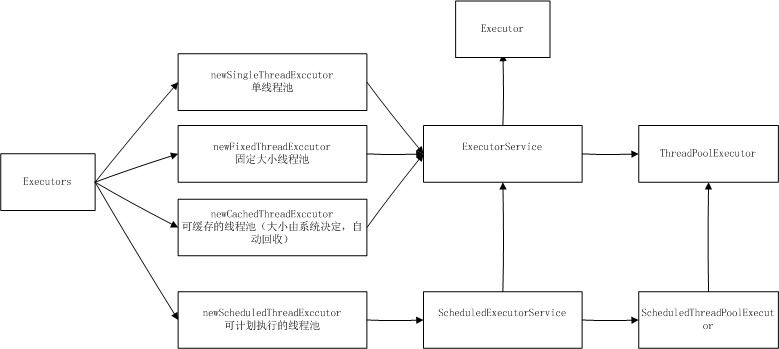
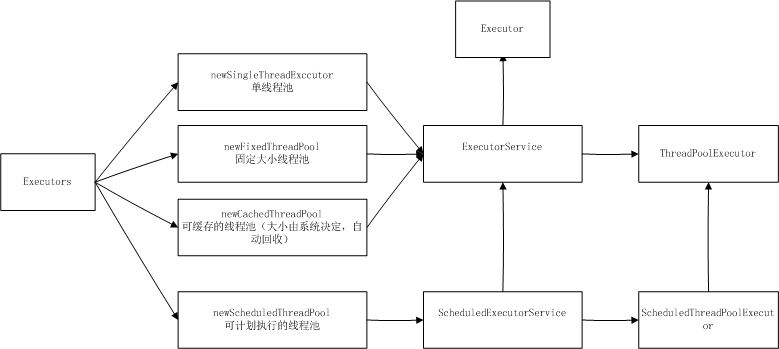
change thread pool note

Changed region(s): [[0.2465, 0.8596, 0.4313, 0.9169], [0.2773, 0.6017, 0.4313, 0.6304], [0.2773, 0.4011, 0.4313, 0.4298]]

diff --git a/2016/03/04/java线程池/index.html b/2016/03/04/java线程池/index.html
@@ -227,8 +227,8 @@
 <pre><code><span class="comment"><figure class="highlight java"><table><tr><td class="gutter"><pre><span class="line">1</span><br><span class="line">2</span><br><span class="line">3</span><br><span class="line">4</span><br><span class="line">5</span><br><span class="line">6</span><br><span class="line">7</span><br><span class="line">8</span><br><span class="line">9</span><br><span class="line">10</span><br><span class="line">11</span><br><span class="line">12</span><br><span class="line">13</span><br><span class="line">14</span><br></pre></td><td class="code"><pre><span class="line">ScheduledExecutorService  pool =  Executors.newScheduledThreadPool(<span class="number">2</span>);</span><br><span class="line">pool.scheduleAtFixedRate(<span class="keyword">new</span> Runnable() &#123;<span class="comment">//每隔一段时间就触发异常</span></span><br><span class="line">       <span class="annotation">@Override</span></span><br><span class="line">       <span class="function"><span class="keyword">public</span> <span class="keyword">void</span> <span class="title">run</span><span class="params">()</span> </span>&#123;</span><br><span class="line">            <span class="comment">//throw new RuntimeException();</span></span><br><span class="line">            System.out.println(<span class="string">"================"</span>);</span><br><span class="line">       &#125;</span><br><span class="line">   &#125;, <span class="number">1000</span>, <span class="number">2000</span>, TimeUnit.MILLISECONDS);</span><br><span class="line">pool.scheduleAtFixedRate(<span class="keyword">new</span> Runnable() &#123;<span class="comment">//每隔一段时间打印系统时间，证明两者是互不影响的</span></span><br><span class="line">       <span class="annotation">@Override</span></span><br><span class="line">       <span class="function"><span class="keyword">public</span> <span class="keyword">void</span> <span class="title">run</span><span class="params">()</span> </span>&#123;</span><br><span class="line">            System.out.println(<span class="string">"+++++++++++++++++"</span>);</span><br><span class="line">       &#125;</span><br><span class="line">   &#125;, <span class="number">1000</span>, <span class="number">2000</span>, TimeUnit.MILLISECONDS);</span><br></pre></td></tr></table></figure></span>
 </code></pre><p>输入结果： </p>
 <p>================<br>+++++++++++++++++<br>+++++++++++++++++<br>+++++++++++++++++  </p>
-<p>三、线程池核心参数<br>    corePoolSize ： 池中核心的线程数<br>    maximumPoolSize ： 池中允许的最大线程数。<br>    keepAliveTime ： 当线程数大于核心时，此为终止前多余的空闲线程等待新任务的最长时间。<br>    unit ： keepAliveTime 参数的时间单位。<br>    workQueue ： 执行前用于保持任务的队列。此队列仅保持由 execute方法提交的 Runnable任务。<br>    threadFactory ： 执行程序创建新线程时使用的工厂。<br>    handler ： 由于超出线程范围和队列容量而使执行被阻塞时所使用的处理程序。<br>    ThreadPoolExecutor是Executors类的底层实现。  </p>
-<p>3.1 任务排队机制<br>    SynchonousQueue: 同步队列<br>    LinkedBlockingQueue: 无界对列<br>    ArrayBlockingQueue : 有界队列  </p>
+<p>三、线程池核心参数<br>    corePoolSize ： 池中核心的线程数<br>    maximumPoolSize ： 池中允许的最大线程数。<br>    keepAliveTime ： 当线程数大于核心时，此为终止前多余的空闲线程等待新任务的最长时间。<br>    unit ： keepAliveTime 参数的时间单位。<br>    workQueue ： 执行前用于保持任务的队列。此队列仅保持由 execute方法提交的 Runnable任务。<br>    threadFactory ： 执行程序创建新线程时使用的工厂。<br>    handler ： 由于超出线程范围和队列容量而使执行被阻塞时所使用的处理程序。<br>    ThreadPoolExecutor ：Executors类的底层实现。  </p>
+<p>3.1 任务排队机制<br>    SynchonousQueue: 同步队列，队列直接提交给线程执行而不保持它们，此时线程池通常是无界的<br>    LinkedBlockingQueue: 无界对列，当线程池线程数达到最大数量时，新任务就会在队列中等待执行，可能会造成队列无限膨胀<br>    ArrayBlockingQueue : 有界队列，有助于防止资源耗尽，一旦达到上限，可能会造成新任务丢失<br>    注意：<br>     newSingleThreadExecutor、newFixedThreadPool使用的是LinkedBlockingQueue<br>     newCachedThreadPool 使用的是 SynchonousQueue<br>     newScheduledThreadPool使用的是 DelayedWorkQueue</p>
 <p>3.2 线程执行流程<br>  <img src="../../../../images/201603/threadpool2.jpg" alt=""></p>
 <p>3.3 线程大小确定：<br>   cpu密集型： 尽量少开线程，最佳线程数 Ncpu+1<br>   io密集型：多开线程，2Ncpu<br>   混合型：根据情况而定，可以拆分成io密集和cou密集  </p>
 

diff --git a/index.html b/index.html
@@ -217,8 +217,8 @@
 <pre><code><span class="comment"><figure class="highlight java"><table><tr><td class="gutter"><pre><span class="line">1</span><br><span class="line">2</span><br><span class="line">3</span><br><span class="line">4</span><br><span class="line">5</span><br><span class="line">6</span><br><span class="line">7</span><br><span class="line">8</span><br><span class="line">9</span><br><span class="line">10</span><br><span class="line">11</span><br><span class="line">12</span><br><span class="line">13</span><br><span class="line">14</span><br></pre></td><td class="code"><pre><span class="line">ScheduledExecutorService  pool =  Executors.newScheduledThreadPool(<span class="number">2</span>);</span><br><span class="line">pool.scheduleAtFixedRate(<span class="keyword">new</span> Runnable() &#123;<span class="comment">//每隔一段时间就触发异常</span></span><br><span class="line">       <span class="annotation">@Override</span></span><br><span class="line">       <span class="function"><span class="keyword">public</span> <span class="keyword">void</span> <span class="title">run</span><span class="params">()</span> </span>&#123;</span><br><span class="line">            <span class="comment">//throw new RuntimeException();</span></span><br><span class="line">            System.out.println(<span class="string">"================"</span>);</span><br><span class="line">       &#125;</span><br><span class="line">   &#125;, <span class="number">1000</span>, <span class="number">2000</span>, TimeUnit.MILLISECONDS);</span><br><span class="line">pool.scheduleAtFixedRate(<span class="keyword">new</span> Runnable() &#123;<span class="comment">//每隔一段时间打印系统时间，证明两者是互不影响的</span></span><br><span class="line">       <span class="annotation">@Override</span></span><br><span class="line">       <span class="function"><span class="keyword">public</span> <span class="keyword">void</span> <span class="title">run</span><span class="params">()</span> </span>&#123;</span><br><span class="line">            System.out.println(<span class="string">"+++++++++++++++++"</span>);</span><br><span class="line">       &#125;</span><br><span class="line">   &#125;, <span class="number">1000</span>, <span class="number">2000</span>, TimeUnit.MILLISECONDS);</span><br></pre></td></tr></table></figure></span>
 </code></pre><p>输入结果： </p>
 <p>================<br>+++++++++++++++++<br>+++++++++++++++++<br>+++++++++++++++++  </p>
-<p>三、线程池核心参数<br>    corePoolSize ： 池中核心的线程数<br>    maximumPoolSize ： 池中允许的最大线程数。<br>    keepAliveTime ： 当线程数大于核心时，此为终止前多余的空闲线程等待新任务的最长时间。<br>    unit ： keepAliveTime 参数的时间单位。<br>    workQueue ： 执行前用于保持任务的队列。此队列仅保持由 execute方法提交的 Runnable任务。<br>    threadFactory ： 执行程序创建新线程时使用的工厂。<br>    handler ： 由于超出线程范围和队列容量而使执行被阻塞时所使用的处理程序。<br>    ThreadPoolExecutor是Executors类的底层实现。  </p>
-<p>3.1 任务排队机制<br>    SynchonousQueue: 同步队列<br>    LinkedBlockingQueue: 无界对列<br>    ArrayBlockingQueue : 有界队列  </p>
+<p>三、线程池核心参数<br>    corePoolSize ： 池中核心的线程数<br>    maximumPoolSize ： 池中允许的最大线程数。<br>    keepAliveTime ： 当线程数大于核心时，此为终止前多余的空闲线程等待新任务的最长时间。<br>    unit ： keepAliveTime 参数的时间单位。<br>    workQueue ： 执行前用于保持任务的队列。此队列仅保持由 execute方法提交的 Runnable任务。<br>    threadFactory ： 执行程序创建新线程时使用的工厂。<br>    handler ： 由于超出线程范围和队列容量而使执行被阻塞时所使用的处理程序。<br>    ThreadPoolExecutor ：Executors类的底层实现。  </p>
+<p>3.1 任务排队机制<br>    SynchonousQueue: 同步队列，队列直接提交给线程执行而不保持它们，此时线程池通常是无界的<br>    LinkedBlockingQueue: 无界对列，当线程池线程数达到最大数量时，新任务就会在队列中等待执行，可能会造成队列无限膨胀<br>    ArrayBlockingQueue : 有界队列，有助于防止资源耗尽，一旦达到上限，可能会造成新任务丢失<br>    注意：<br>     newSingleThreadExecutor、newFixedThreadPool使用的是LinkedBlockingQueue<br>     newCachedThreadPool 使用的是 SynchonousQueue<br>     newScheduledThreadPool使用的是 DelayedWorkQueue</p>
 <p>3.2 线程执行流程<br>  <img src="images/201603/threadpool2.jpg" alt=""></p>
 <p>3.3 线程大小确定：<br>   cpu密集型： 尽量少开线程，最佳线程数 Ncpu+1<br>   io密集型：多开线程，2Ncpu<br>   混合型：根据情况而定，可以拆分成io密集和cou密集  </p>
 
